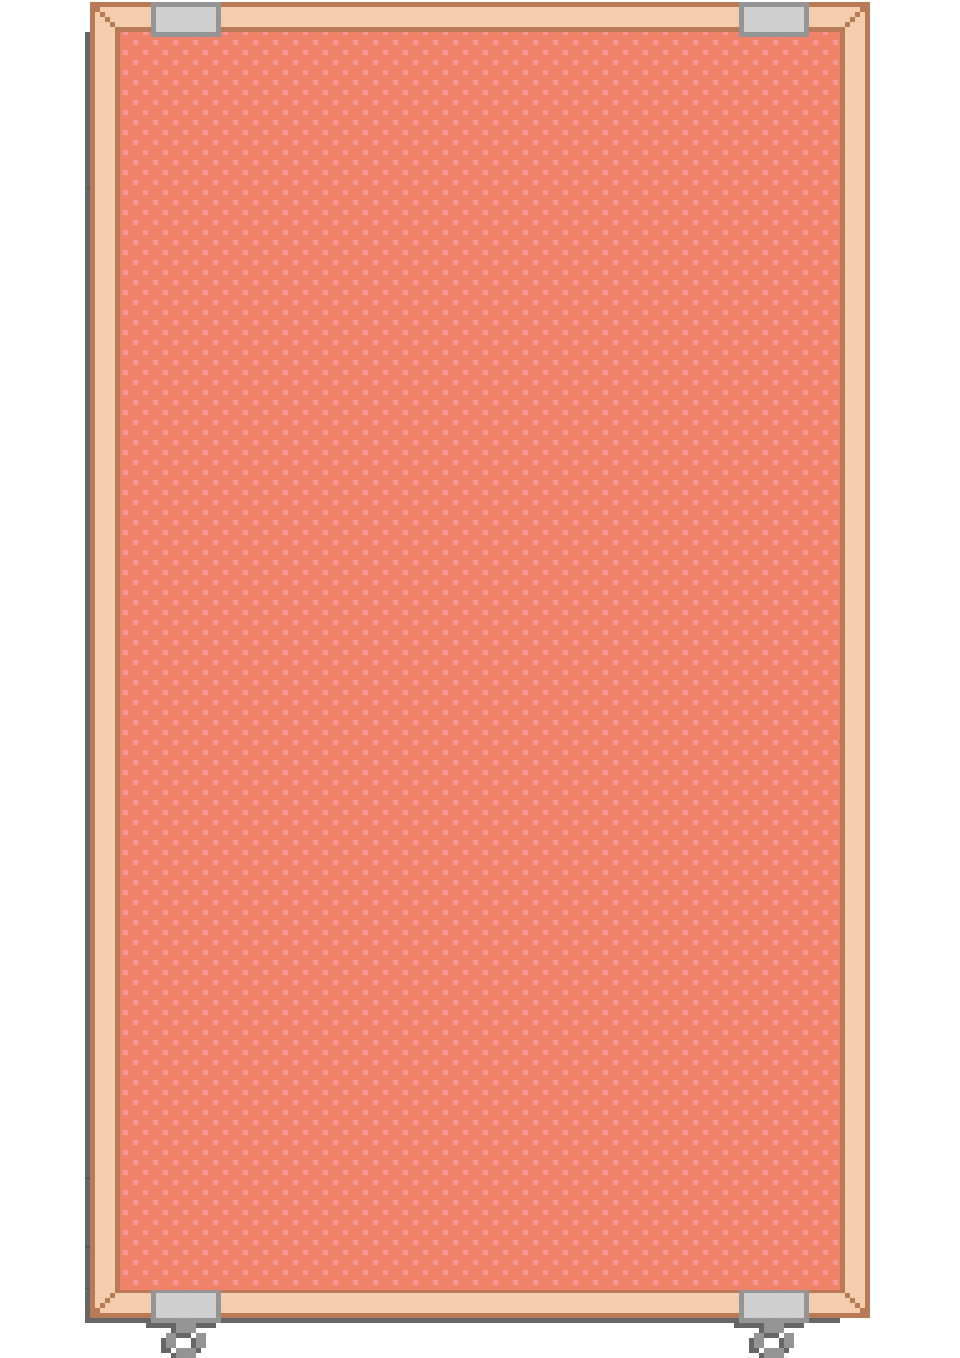
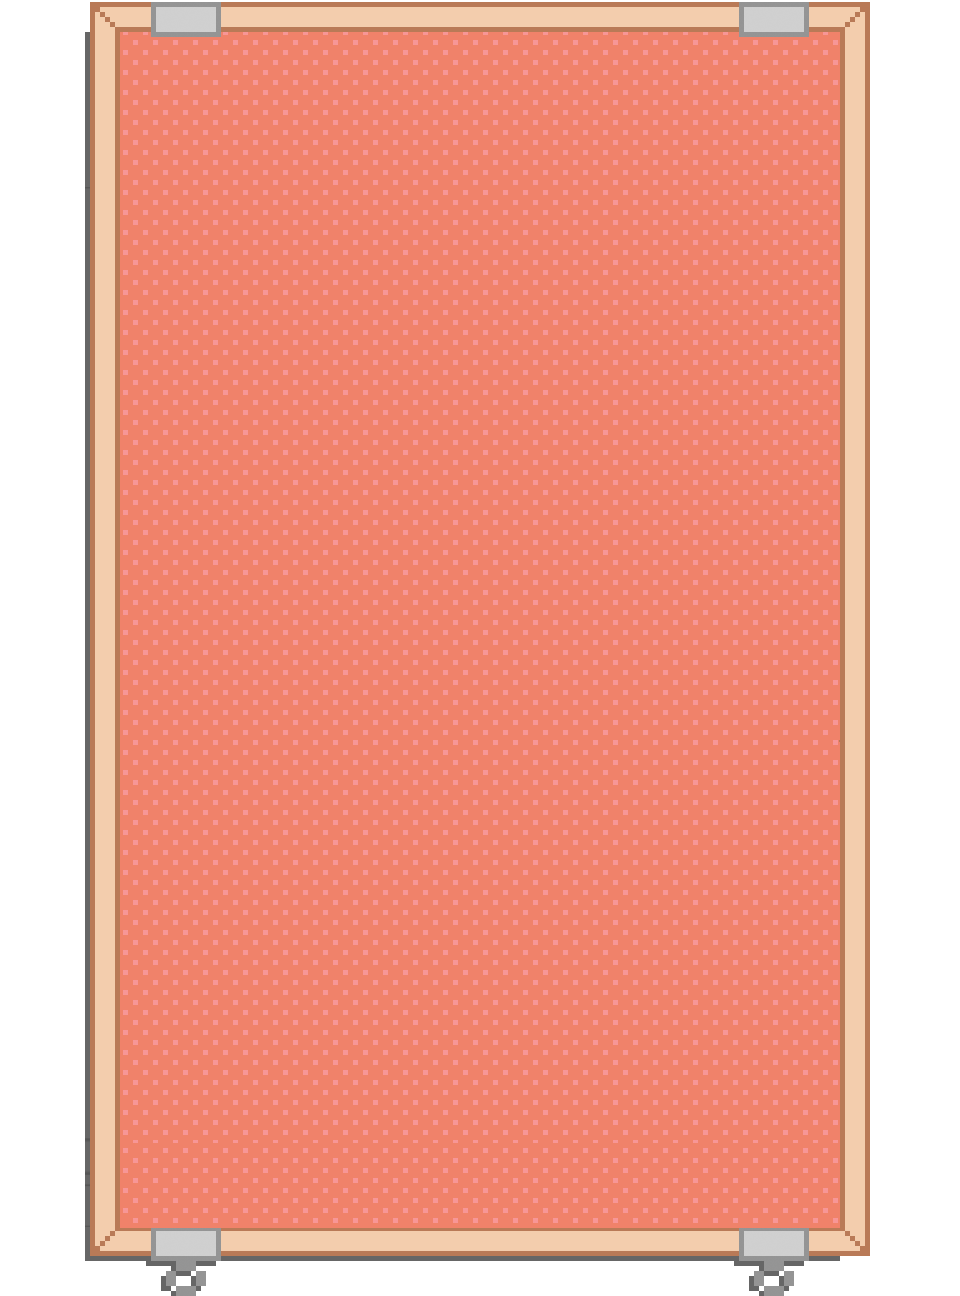
Fix section height

Changed region(s): [[0.0938, 0.679, 0.9062, 0.9877], [0.125, 0.0, 0.875, 0.2778], [0.125, 0.3704, 0.875, 0.6173]]

diff --git a/css/main.css b/css/main.css
@@ -72,7 +72,7 @@ color: #ff1472;
 section
 {
 	background: url(../img/section.png) no-repeat center top;
-	height: 1358px;
+	height: 1296px;
 	font-size: 25px;
 	padding: 0;
 	margin: 0;
